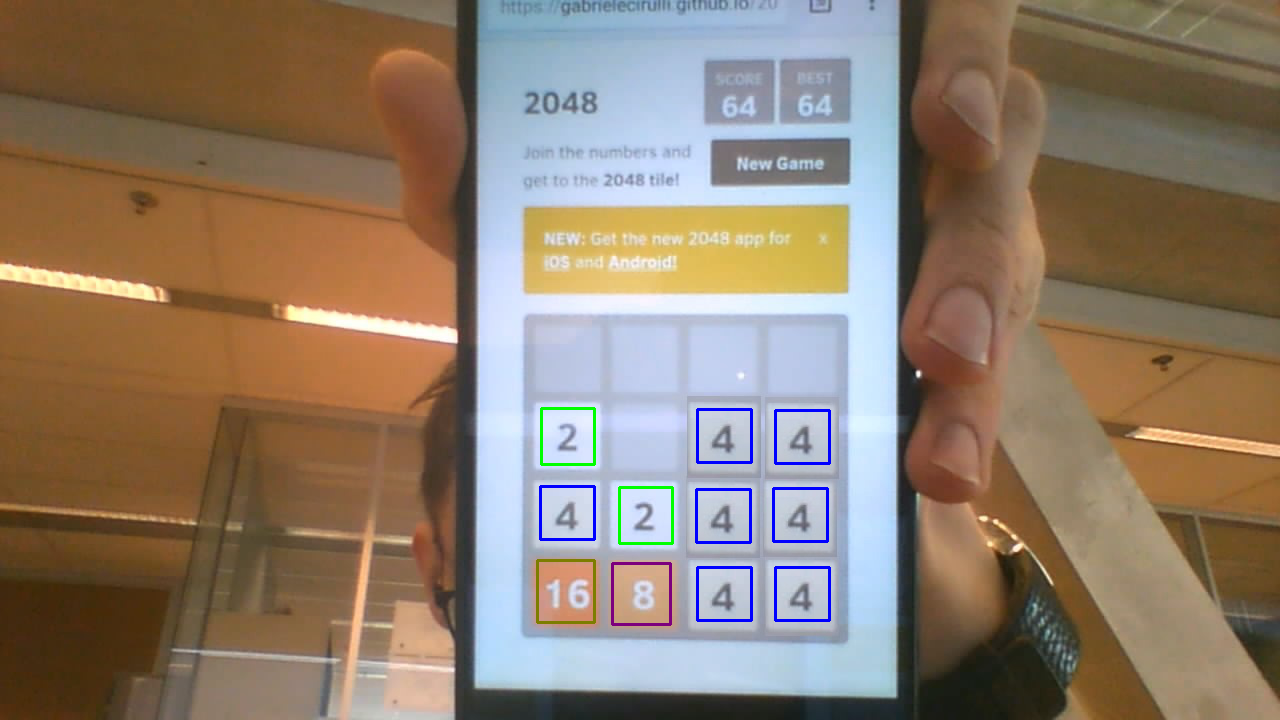
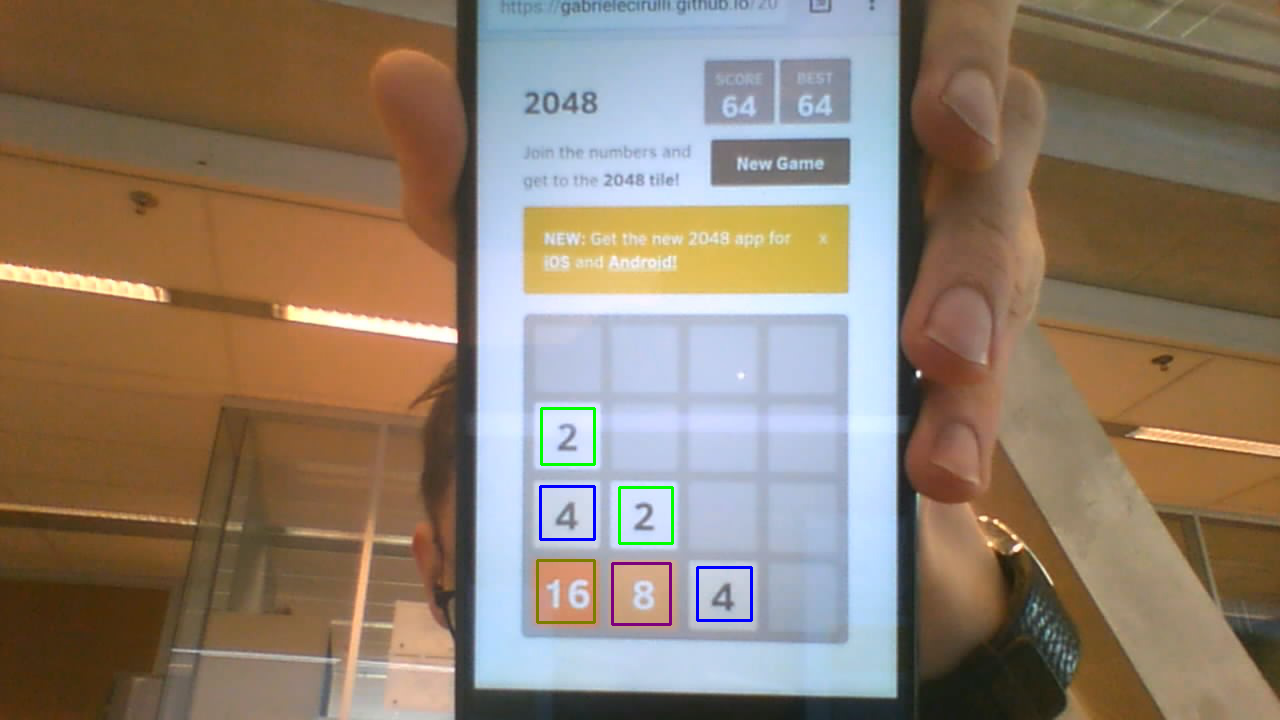
Combined AI with vision in main

Changed region(s): [[0.5312, 0.55, 0.6562, 0.8861]]

diff --git a/main.py b/main.py
@@ -2,6 +2,7 @@ import urx
 from time import sleep
 from robot_controls import robot_positions
 from robot_vision import vision
+from robot_brain import weighted_table
 
 rob = urx.Robot("141.252.128.7")
 #print("Connected")
@@ -14,9 +15,10 @@ board = None
 
 def main():
     vision.init()
-    rob.movej(positions.get("start"), wait=True, vel=0.7, acc=1.1, pose=True)
+    print getDirection()
+    #rob.movej(positions.get("start"), wait=True, vel=0.7, acc=1.1, pose=True)
     # loop
-    doMove(getDirection())
+    #doMove(getDirection())
     # wait until robot has moved and repeat
 
 def doMove(direction):
@@ -35,14 +37,15 @@ def doMove(direction):
 def getDirection():
     board = vision.updateBoard()
     print board
+    return weighted_table.getMove(board)
     # return ai.getMove(board)
 
 #temporary
-rob.movej(positions.get("start"), wait=True, vel=0.7, acc=1.1, pose=True)
-doMove(0)
-doMove(2)
-doMove(3)
-doMove(1)
-rob.movej(positions.get("start"), wait=True, vel=0.7, acc=1.1, pose=True)
-
+# rob.movej(positions.get("start"), wait=True, vel=0.7, acc=1.1, pose=True)
+# doMove(0)
+# doMove(2)
+# doMove(3)
+# doMove(1)
+# rob.movej(positions.get("start"), wait=True, vel=0.7, acc=1.1, pose=True)
+main()
 print("Done")

diff --git a/robot_vision/vision.py b/robot_vision/vision.py
@@ -6,7 +6,9 @@ from matplotlib import pyplot as plt
 
 img_rgb = None
 img_gray = None
-template_path = 'templates'
+tiles = None
+path = '' if __name__ == "__main__" else 'robot_vision/'
+template_path = path + 'templates'
 tile_path = template_path + '/tiles'
 tile_info = [((0,255,0),2), ((255,0,0),4), ((125,0,125),8), ((0,125,125),16)]
 
@@ -14,12 +16,16 @@ grid = []
 board = [0] * 16
 
 def init():
-    img_rgb = cv2.imread('test9.jpg')
-    img_gray = img_gray = cv2.cvtColor(img_rgb, cv2.COLOR_BGR2GRAY)
+    global img_rgb, img_gray, tiles
+    img_rgb = cv2.imread(path + 'test5.jpg')
+    img_gray = cv2.cvtColor(img_rgb, cv2.COLOR_BGR2GRAY)
     tiles = os.listdir(tile_path)
+    print tiles
 
 def updateBoard():
     # get matches and put them on board list
+    getAllMatches()
+    printBoard(board)
     return board
 
 def getAllMatches():
@@ -99,6 +105,7 @@ def printBoard(board):
         val += 4;
 
 # printBoard(board)
-
+# init()
+# print updateBoard()
 #getAllMatches()
-#cv2.imwrite('res.png',img_rgb)
+# cv2.imwrite('res.png',img_rgb)

diff --git a/robot_brain/weighted_table.py b/robot_brain/weighted_table.py
@@ -1,6 +1,6 @@
 import game_logic
 
-def smart_boi(board, depth):
+def getMove(board, depth=5):
     score = 0
     best_move = 0
     false_counter = 0
@@ -20,5 +20,5 @@ def smart_boi(board, depth):
             false_counter = (false_counter+1)
             if(false_counter == 3):
                 return-1
-        
+
     return best_move
